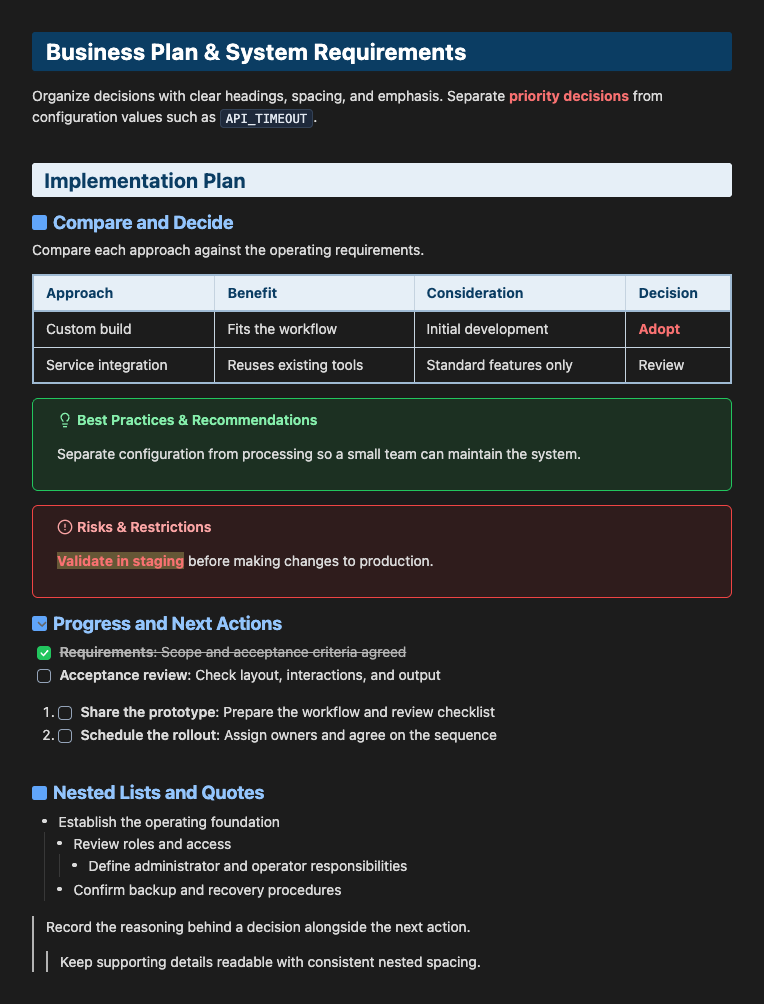
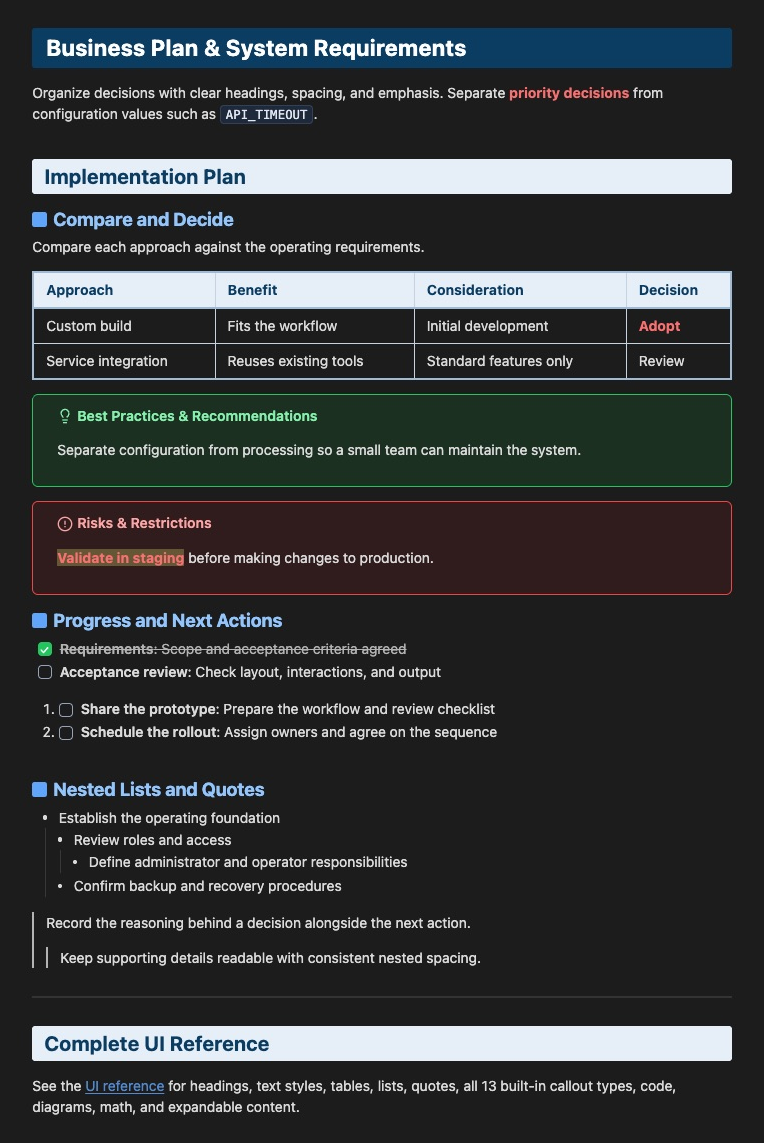
文書: 1.1.0の表示仕様とスクリーンショットを更新

Changed region(s): [[0.0301, 0.0, 0.9634, 0.988]]

diff --git a/CHANGELOG.md b/CHANGELOG.md
@@ -1,0 +1,9 @@
+# Changelog / 変更履歴
+
+## 1.1.0
+
+- Add a readable property card with clear labels, body-size values, and full descriptions in both Reading and Live Preview. / 閲覧・編集のプロパティを読みやすいカード表示に統一し、項目名を明確に、値を本文サイズで、長い説明文を省略せず表示します。
+- Align the space after properties in both modes; hidden YAML no longer adds a chapter gap. / プロパティ後の余白を両モードで揃え、非表示YAMLに章間余白が加わる問題を修正しました。
+- Use 64px before H1 chapter transitions while keeping introductory content and adjacent headings compact. / H1の章区切りは64pxとし、冒頭や見出しが続く箇所はコンパクトに保ちます。
+- Start a new PDF page before the second and subsequent body H1 headings. Keep the first H1 with introductory content and exclude the optional filename title. / PDFは本文の2つ目以降のH1で改ページします。最初のH1は冒頭内容と同じページに保ち、ファイル名タイトルは改ページ対象に含めません。
+- Refresh README screenshots and add reusable property and meeting samples. / READMEのスクリーンショットを更新し、プロパティ・会議資料のサンプルを追加しました。

diff --git a/ui-meeting.md b/ui-meeting.md
@@ -1,0 +1,26 @@
+> [!NOTE] 本日のゴール
+> - 提案内容と進め方に合意する
+> - 次のアクションを決める
+
+# アジェンダ
+
+1. 現状の課題と提案
+2. 進め方と役割分担
+
+# 協議事項
+
+## 改善方針
+
+### ご提案
+
+情報の整理と入力手順を共通化し、日々の確認作業を減らします。
+
+> [!TIP] 推奨する進め方
+> 小さな範囲で試し、確認結果をもとに対象を広げます。
+
+# まとめ
+
+## 次のアクション
+
+1. [ ] **資料の準備**: 現行の手順と課題を整理する
+2. [ ] **確認会の実施**: 試作画面を使って操作を確認する

diff --git a/ui-properties.md b/ui-properties.md
@@ -1,0 +1,9 @@
+---
+name: project-notes
+description: 会議の目的と合意事項をまとめるノート。項目名と値を読み分けやすく表示し、長い説明文も省略せず確認できます。
+status: In progress
+---
+
+# プロジェクトノート
+
+概要を確認してから、次のアクションを整理します。
